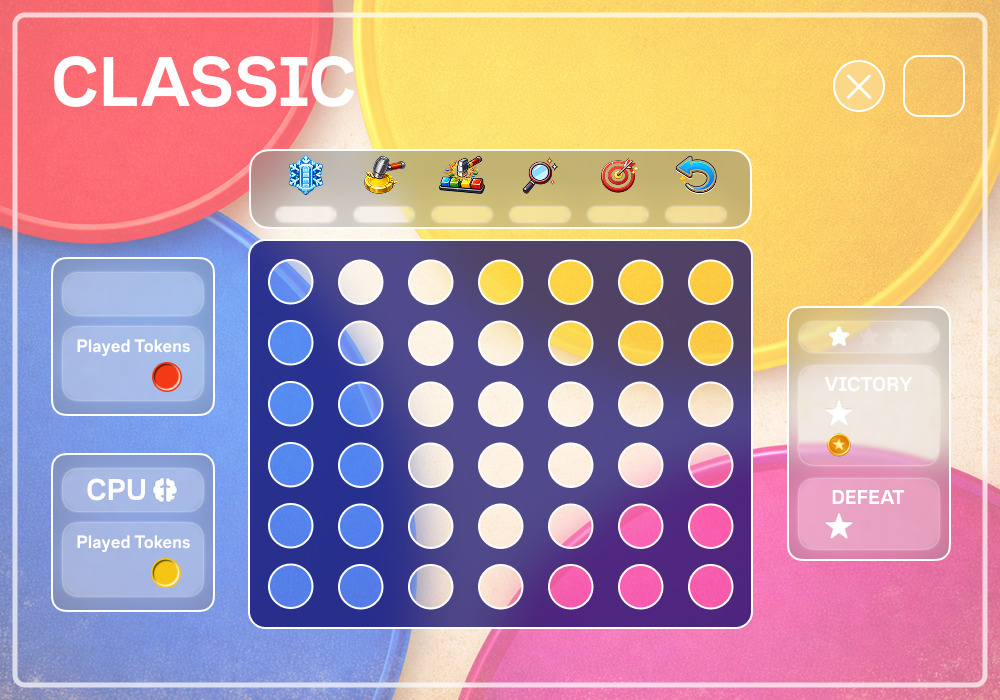
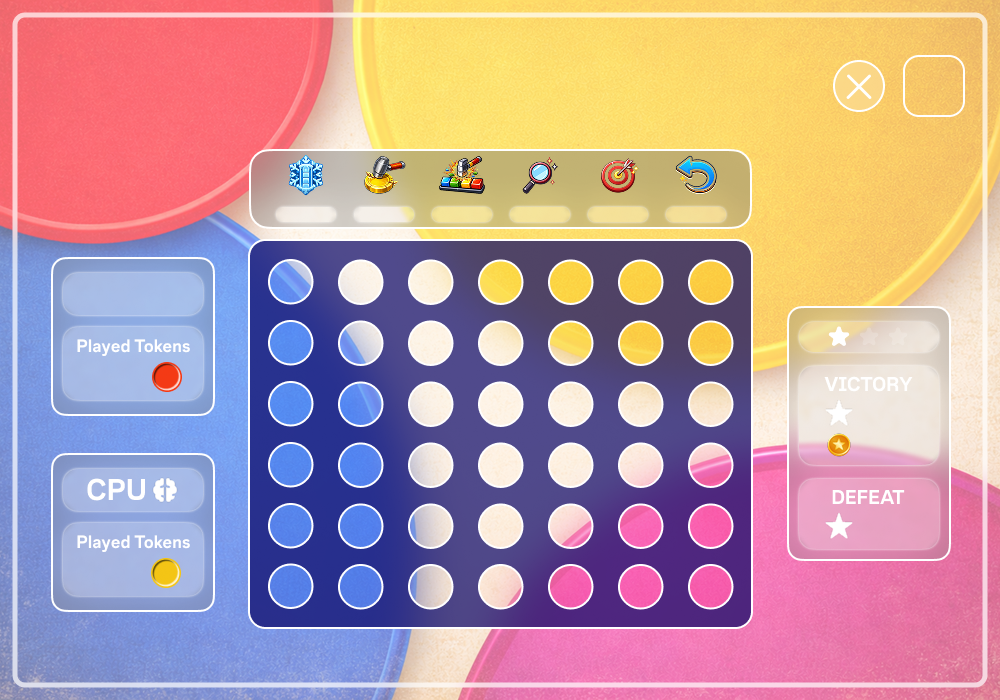
v 1.3.5 - lavoro 16/1/2026

Changed region(s): [[0.031, 0.06, 0.372, 0.15]]

diff --git a/core/src/main/sorgente/Lobby/LobbyInput.java b/core/src/main/sorgente/Lobby/LobbyInput.java
@@ -26,7 +26,6 @@ import java.util.Map;
 
 public class LobbyInput implements InputProcessor {
     private static final Log log = LogFactory.getLog(LobbyInput.class);
-    private int numero=0;
 
     // percentuale audio
     public static float effectsPercent;
@@ -55,6 +54,8 @@ public class LobbyInput implements InputProcessor {
     protected boolean btnCloseScoreboard;
     // game mods
     protected boolean classic, gravity4, horizontal, speedy;
+    // purchase market items
+    protected boolean purchaseItem;
 
     // FLAGS BUTTONS HOVER //
     // difficoltà game mods
@@ -72,6 +73,8 @@ public class LobbyInput implements InputProcessor {
     protected boolean isBtnCloseScoreboardHover;
     // game mods
     protected boolean classicHover, gravity4Hover, horizontalHover, speedyHover;
+    // purchase market items
+    protected boolean purchaseItemHover;
 
     // FLAGS CONTROLLO SCHERMATE APERTE //
     // per aprire le finestre in sovra impressione
@@ -148,7 +151,8 @@ public class LobbyInput implements InputProcessor {
     // numero item da acquistare
     protected static int numPurchaseItem1, numPurchaseItem2, numPurchaseItem3, numPurchaseItem4, numPurchaseItem5, numPurchaseItem6;
 
-    // --- MARKETPLACE: digitazione quantità (stessa logica stile Auth) ---
+    // -- MARKETPLACE -- //
+    // digitazione quantità (stessa logica stile Auth) ---
     // prezzi base (unitari) dei booster (usati per calcolare il massimo acquistabile e il totale mostrato)
     private static final int[] MARKET_UNIT_PRICE = {10, 5, 5, 20, 10, 20};
 
@@ -168,6 +172,15 @@ public class LobbyInput implements InputProcessor {
 
     // stato selezione (Ctrl+A) del campo attivo
     protected boolean marketQtySelected = false;
+
+    // pulsanti ACQUISTA (icone purchase_item / purchase_item_clicked) ---
+    protected static final float[] MARKET_BUY_X = {307f, 544f, 781f, 307f, 544f, 781f};
+    protected static final float[] MARKET_BUY_Y = {320f, 320f, 320f, 457f, 457f, 457f};
+
+    private final Rectangle[] marketBuyAreas = new Rectangle[6];
+    protected final boolean[] marketBuyHover = new boolean[6];
+    protected final boolean[] marketBuyClicked = new boolean[6];
+
 
     // mappa con i punti degli utenti (utile per la scoreboard)
     protected static Map<String, Integer> usersPointsMap = new HashMap<>();
@@ -240,7 +253,8 @@ public class LobbyInput implements InputProcessor {
         btnCloseMarketArea= new Rectangle(814,187,40,40);
         btnCloseScoreboardArea= new Rectangle(814,174,40,40);
 
-        // --- MARKET: aree click quantità (calcolate dalle coordinate di disegno) ---
+        // MARKET //
+        // aree click quantità (calcolate dalle coordinate di disegno) ---
         // In LibGDX touchDown usa coordinate top-left, mentre il rendering usa bottom-left.
         // Convertiamo: y_input = H - (y_draw + h_box)
         final int H = Gdx.graphics.getHeight();
@@ -251,6 +265,14 @@ public class LobbyInput implements InputProcessor {
             float yBox = MARKET_QTY_Y[i];
             marketQtyAreas[i] = new Rectangle(xBox, yBox, boxW, boxH);
         }
+
+        // aree click "ACQUISTA"
+        final float buyW = 30f;
+        final float buyH = 30f;
+        for (int i = 0; i < 6; i++) {
+            marketBuyAreas[i] = new Rectangle(MARKET_BUY_X[i], MARKET_BUY_Y[i], buyW, buyH);
+        }
+
 
         btn_no= new Rectangle(503,408,150,50);
         btn_yes= new Rectangle(341,408,150,50);
@@ -361,6 +383,9 @@ public class LobbyInput implements InputProcessor {
 
         // yes/no logout
         isBtnLogoutClicked = btnNoExit = btnYesExit = false;
+
+        // pulsanti purchase market items
+        for (int i = 0; i < 6; i++) marketBuyClicked[i] = false;
     }
 
     // resetta lo stato di Hover dei pulsanti
@@ -382,6 +407,8 @@ public class LobbyInput implements InputProcessor {
 
         // stelle difficoltà
         for ( int i=0; i<8; i++) starHover[i] = false;
+        // hover pulsanti acquisto item mercato
+        for (int i = 0; i < 6; i++) marketBuyHover[i] = false;
     }
 
     // metodo per il controllo dei click
@@ -482,16 +509,54 @@ public class LobbyInput implements InputProcessor {
                         return clicked();
                     }
                 }
-            }
 
-            // chiusura mercato
-            if(isMarketOpen && btnCloseMarketArea.contains(x,y)) {
-                btnCloseMarket=true;
-                //clickedTimer = 0.15f;
-                setInputEnabled(false);
+                // chiusura mercato
+                if(btnCloseMarketArea.contains(x,y)) {
+                    btnCloseMarket=true;
+                    //clickedTimer = 0.15f;
+                    setInputEnabled(false);
 
-                scheduleScreenChange(ACT_CLOSE_MARKET, 0.20f);
-                return clicked();
+                    scheduleScreenChange(ACT_CLOSE_MARKET, 0.20f);
+                    return clicked();
+                }
+
+                // acquisto elementi
+                for (int i = 0; i < 6; i++) {
+                    if (marketBuyAreas[i] != null && marketBuyAreas[i].contains(x, y)) {
+
+                        int idx = i + 1; // 1..6
+
+                        int credits = ((Number) UserProgressService.getProgress("credits")).intValue();
+
+                        // quantità selezionata
+                        int qty = getNumPurchaseForIndex(idx);
+
+                        // sicurezza: ricontrolla max acquistabile con credits attuali
+                        int max = getMaxPurchasable(idx);
+                        if (max <= 0) return clicked();          // non puoi comprare nemmeno 1 (regola: credits - cost > 0)
+                        qty = Math.min(qty, max);
+                        if (qty < 1) qty = 1;
+
+                        int cost = getMarketUnitPrice(idx) * qty;
+
+                        // regola richiesta: credits - cost > 0
+                        if (credits - cost > 0) {
+                            credits -= cost;
+
+                            // salva subito i crediti
+                            UserProgressService.setProgress("credits", credits);
+
+                            // TODO: qui incrementi anche il numero di booster posseduti (se hai già le chiavi)
+                            // Esempio (se esiste): UserProgressService.setProgress("freezer", old + qty);
+
+                            marketBuyClicked[i] = true;
+                            clickedTimer = 0.12f; // giusto un flash veloce
+                            return clicked();
+                        }
+
+                        return clicked();
+                    }
+                }
 
             }
 
@@ -712,7 +777,6 @@ public class LobbyInput implements InputProcessor {
         // reset hover
         resetHover();
 
-
         // sets hover states for open window buttons
         if(isInfoOpen || isSettingsOpen || isLogoutOpen || isScoreboardOpen || isMarketOpen) {
             // close game credits
@@ -745,6 +809,14 @@ public class LobbyInput implements InputProcessor {
             if (btnCloseScoreboardArea.contains(screenX,screenY)) {
                 isBtnCloseScoreboardHover=true;
                 return true;
+            }
+
+            // hover pulsanti acquisto
+            for (int i = 0; i < 6; i++) {
+                if (marketBuyAreas[i] != null && marketBuyAreas[i].contains(screenX, screenY)) {
+                    marketBuyHover[i] = true;
+                    return true;
+                }
             }
 
             return false;
@@ -809,7 +881,6 @@ public class LobbyInput implements InputProcessor {
         }
 
         if (horizontalArea.contains(screenX, screenY)) { // game "horizontal"
-
             horizontalHover= true;
             return true;
         }

diff --git a/core/src/main/sorgente/Lobby/LobbyUI.java b/core/src/main/sorgente/Lobby/LobbyUI.java
@@ -23,6 +23,7 @@ import sorgente.UserData.UserProgressService;
 import sorgente.VersionInfo;
 import java.awt.*;
 import java.io.IOException;
+import java.text.Format;
 import java.text.NumberFormat;
 import java.util.Locale;
 import java.util.Map;
@@ -47,7 +48,7 @@ public class LobbyUI implements ResourceLoader {
     private Texture darkBtnClose,darkBtnCloseClicked;
     private Texture darkBtnMarket,darkBtnMarketClicked;
     private Texture volume_bar_dark;
-
+    private Texture purchase_item_dark, purchase_item_clicked_dark;
 
     // LIGHT MODE
     private Texture lightLobby,lightLogout,lightSettings,lightCredits, lightScoreboard, lightMarket;
@@ -55,6 +56,7 @@ public class LobbyUI implements ResourceLoader {
     private Texture lightBtnClose,lightBtnCloseClicked;
     private Texture lightBtnMarket,lightBtnMarketClicked;
     private Texture volume_bar_light;
+    private Texture purchase_item_light, purchase_item_clicked_light;
 
     // MODE MODIFICABILE
     private Texture lobby, software_infos, logout, settings,btn_logout_clicked, scoreboard, market;
@@ -68,6 +70,7 @@ public class LobbyUI implements ResourceLoader {
     private Texture market_hover;
     private Texture market_clicked;
     private Texture volume_bar;
+    private Texture purchase_item, purchase_item_clicked;
 
     private int effectsVolume, musicVolume;
 
@@ -127,6 +130,9 @@ public class LobbyUI implements ResourceLoader {
         darkBtnMarketClicked=new Texture("ui/buttons/lobby/dark/market_clicked.png");
 
         volume_bar_dark=new Texture("ui/buttons/lobby/dark/volume_bar_dark.png");
+
+        purchase_item_dark=new Texture("ui/buttons/lobby/dark/purchase_item.png");
+        purchase_item_clicked_dark=new Texture("ui/buttons/lobby/dark/purchase_item_clicked.png");
     }
 
     public void loadLightMode() {
@@ -148,6 +154,9 @@ public class LobbyUI implements ResourceLoader {
         lightBtnMarketClicked=new Texture("ui/buttons/lobby/light/market_clicked.png");
 
         volume_bar_light=new Texture("ui/buttons/lobby/light/volume_bar_light.png");
+
+        purchase_item_light=new Texture("ui/buttons/lobby/light/purchase_item.png");
+        purchase_item_clicked_light=new Texture("ui/buttons/lobby/light/purchase_item_clicked.png");
     }
 
     public void darkMode(boolean isDarkMode) {
@@ -172,6 +181,9 @@ public class LobbyUI implements ResourceLoader {
             market_clicked=darkBtnMarketClicked;
 
             volume_bar=volume_bar_dark;
+
+            purchase_item=purchase_item_dark;
+            purchase_item_clicked=purchase_item_clicked_dark;
         }
         else {
             lobby=lightLobby;
@@ -192,6 +204,9 @@ public class LobbyUI implements ResourceLoader {
             market_clicked=lightBtnMarketClicked;
 
             volume_bar=volume_bar_light;
+
+            purchase_item=purchase_item_light;
+            purchase_item_clicked=purchase_item_clicked_light;
         }
     }
 
@@ -324,7 +339,7 @@ public class LobbyUI implements ResourceLoader {
         // calcolo larghezza del testo
         GlyphLayout layout2 = new GlyphLayout(Fonts.bold25, text2);
         // stampa testo
-        Fonts.bold25.draw(screen, layout2, (775 - layout2.width), 623);
+        Fonts.bold25.draw(screen, formatter.format(credits), (775 - layout2.width), 623);
 
         // SCOREBOARD TOP 5 USERS //
         drawScoreboard(5);
@@ -372,31 +387,24 @@ public class LobbyUI implements ResourceLoader {
                 case 0:
                     draw(star, true, 131, 301);   // Classic stella 1
                     break;
-
                 case 1:
                     draw(star, true, 161, 301);   // Classic stella 2
                     break;
-
                 case 2:
                     draw(star, true, 371, 301);   // Gravity4 stella 1
                     break;
-
                 case 3:
                     draw(star, true, 401, 301);   // Gravity4 stella 2
                     break;
-
                 case 4:
                     draw(star, true, 609, 301);   // Horizontal stella 1
                     break;
-
                 case 5:
                     draw(star, true, 639, 301);   // Horizontal stella 2
                     break;
-
                 case 6:
                     draw(star, true, 849, 301);   // Speedy stella 1
                     break;
-
                 case 7:
                     draw(star, true, 879, 301);   // Speedy stella 2
                     break;
@@ -487,6 +495,23 @@ public class LobbyUI implements ResourceLoader {
                 }
 
                 Fonts.bold20.setColor(com.badlogic.gdx.graphics.Color.WHITE);
+            }
+
+            // pulsanti acquisto
+            // pulsanti "acquista" (icone)
+            final float buyW = 30f;
+            final float buyH = 30f;
+            final float H = Gdx.graphics.getHeight();
+
+            for (int i = 1; i <= 6; i++) {
+                float xBuy = LobbyInput.MARKET_BUY_X[i - 1]+8;
+                float yBuy = H - LobbyInput.MARKET_BUY_Y[i - 1]-33;
+
+                boolean isClicked = lobbyInput.marketBuyClicked[i - 1];
+                boolean isHover = lobbyInput.marketBuyHover[i - 1];
+
+                if (isClicked) screen.draw(purchase_item_clicked, xBuy, yBuy, buyW, buyH);
+                if (isHover) screen.draw(purchase_item, xBuy, yBuy, buyW, buyH);
             }
         }
 

diff --git a/core/src/main/sorgente/Authentication/AuthAlgorithms.java b/core/src/main/sorgente/Authentication/AuthAlgorithms.java
@@ -417,7 +417,7 @@ public class AuthAlgorithms implements InputProcessor {
         UserProgressService.setProgress("num_precision", 1);
         UserProgressService.setProgress("num_undo", 1);
         // punti e crediti
-        UserProgressService.setProgress("credits", 0);
+        UserProgressService.setProgress("credits", 10000); // todo: reimpostare a 50 il minimo a inizio gioco
         UserProgressService.setProgress("points", 0);
         // volumi di gioco
         UserProgressService.setProgress("effects_volume", 0.5);

diff --git a/management_docs/versions_infos/beta 1.3.5.md b/management_docs/versions_infos/beta 1.3.5.md
@@ -1,9 +1,28 @@
 Version Beta 1.3.5
 
 * corretta la difficoltà base di gioco a 1 per i nuovi utenti. precedentemente veniva assegnata a 2.
-* todo: nella schermata di caricamento lobby lo schermo è scuro o chiaro in base alla scelta utente di giocare in dark o
-light mode, c'è un errore nel recupero dei progressi utente che avviene dopo il caricamento.
-* todo: nuove musiche per l'apertura del gioco e la lobby
+
 * risolto il bug relativo al lock della sessione utente, ora si può giocare con lo stesso utente su un solo dispositivo
 alla volta. alla chiusura del gioco e al logout utente il lock viene rilasciato.
+
 * cambiato il colore della barra di caricamento per la schermata di caricamento 3.
+
+* impostato il formatter per il testo dei crediti utente in lobby
+
+* risolto il bug della doppia scrittura del titolo nelle pagine di gioco
+
+* doing: implementata la logica del market e la sua grafica.
+  * aggiunto il prezzo per ogni elemento che si aggiorna in base al numero di elementi selezionato da comprare 
+  * implementata la digitazione a tastiera del numero di elementi e fissato il massimo in base ai crediti
+  disponibili e al prezzo dell'elemento
+  * implementato l'hover sui pulsanti di acquisto
+  * implementato il click sui pulsanti
+  * implementata la diminuzione dei crediti all'acquisto di un elemento
+  * todo: aggiungere il numero di boost acquistati
+
+* todo: nella schermata di caricamento lobby lo schermo è scuro o chiaro in base alla scelta utente di giocare in dark o
+  light mode, c'è un errore nel recupero dei progressi utente che avviene dopo il caricamento.
+
+* todo: nuove musiche per l'apertura del gioco e la lobby
+
+* todo: rendere i pulsanti di acquisto della dark mode più visibili

diff --git a/management_docs/versions_infos/beta 1.3.4.md b/management_docs/versions_infos/beta 1.3.4.md
@@ -7,5 +7,4 @@ Version Beta 1.3.4
 rendering della lobby, questo creava un problema per l'utente con un audio basso o muto perché prima partiva
 il soundtrack e poi spariva
 * aggiunto un effetto sonoro all'atterraggio della pedina
-* risolto il bug della doppia scrittura del titolo nelle pagine di gioco
 * aumentato il volume dell'effetto "pedina atterrata" nelle modalità di gioco
